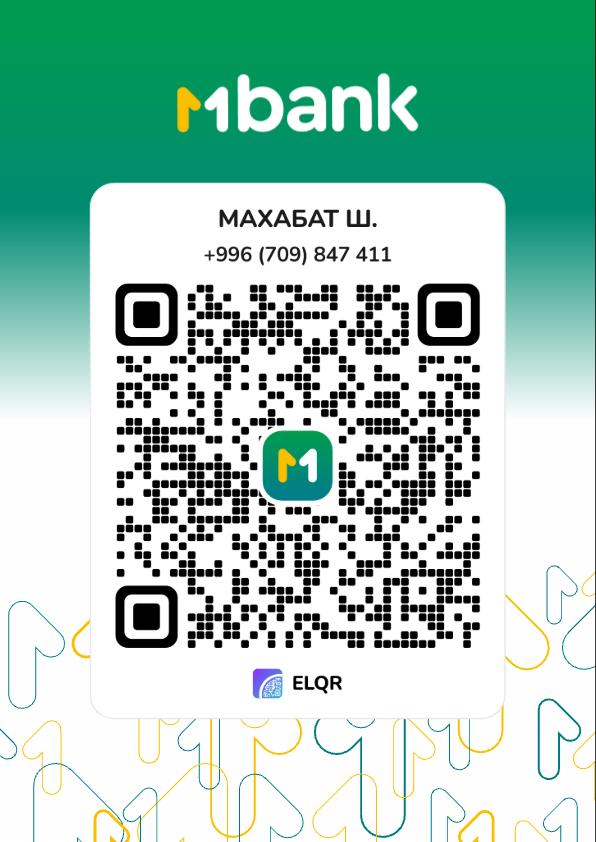
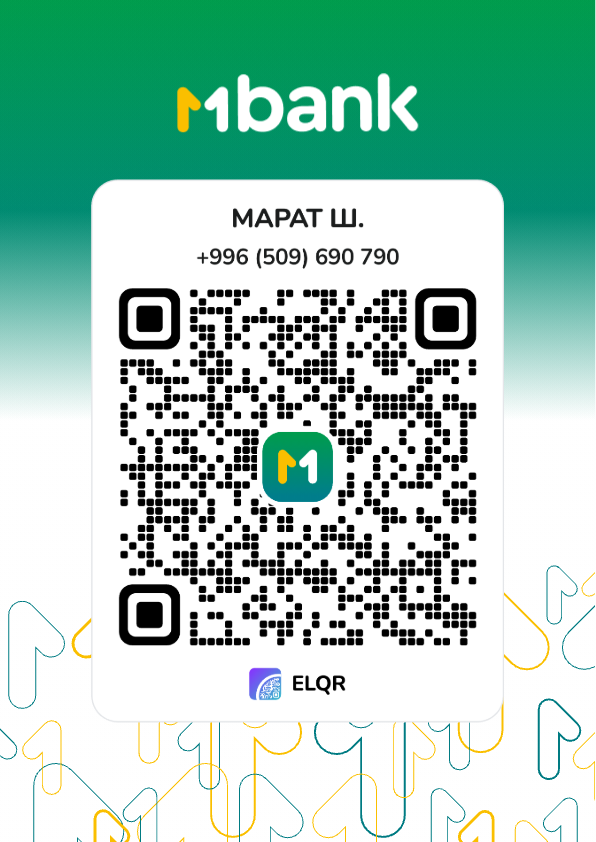
added mabnk

diff --git a/constants/patients.ts b/constants/patients.ts
@@ -14,11 +14,11 @@ export const patients: Patient[] = [
           id: "mbank",
           name: "MBank",
           logo: "/recivers/mbank.jpeg",
-          phone: "+996709847411",
-          paymentReceiver: "Махабат Ш. (Cестра)",
+          phone: "+996509690790",
+          paymentReceiver: "Марат Ш.",
           startColor: "#007E8B",
           endColor: "#009C4D",
-          destination: "https://app.mbank.kg/qr/#00020101021132440012c2c.mbank.kg01020210129967098474111302125204999953034175912MAKhABAT%20Sh.6304ee70",
+          destination: "https://app.mbank.kg/qr/#00020101021132440012c2c.mbank.kg01020210129965096907901302125204999953034175909MARAT%20Sh.63046f6a",
         },
         { 
           id: "obank",
